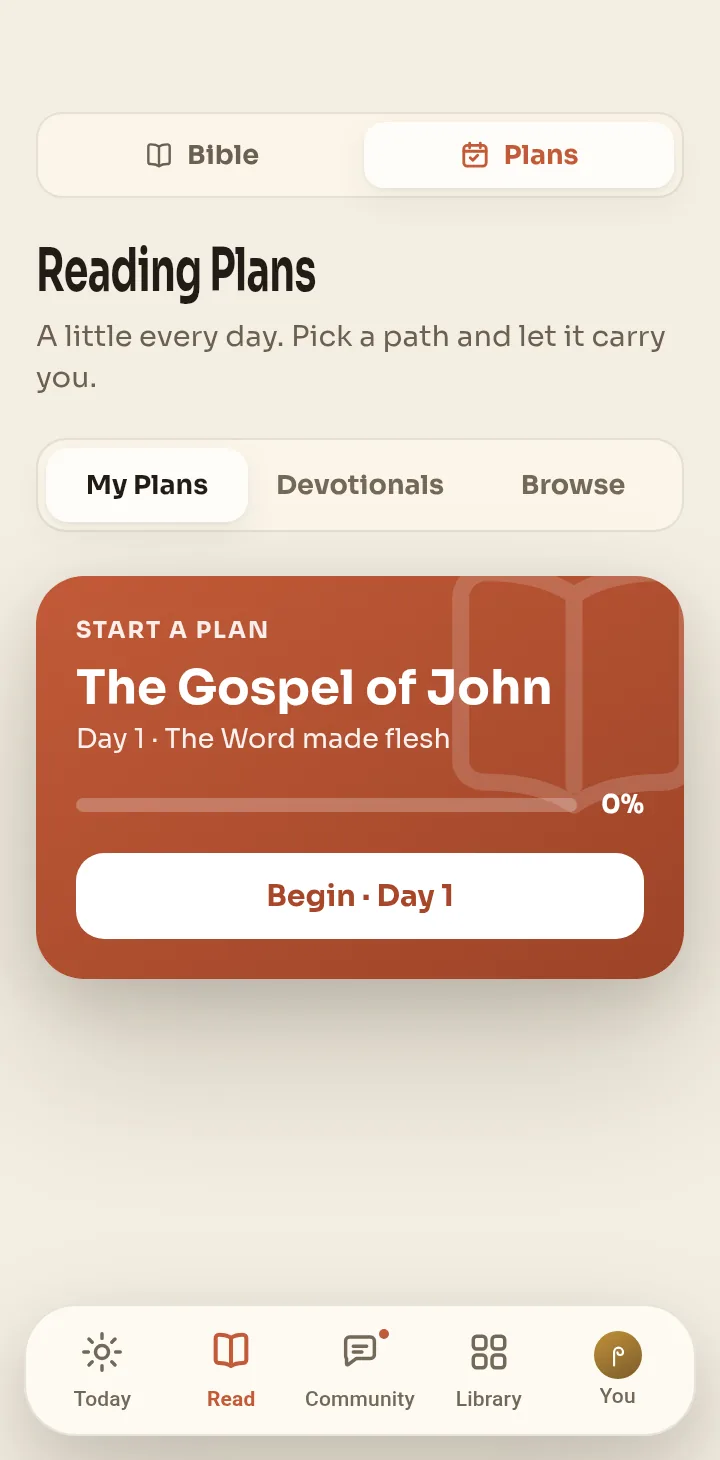
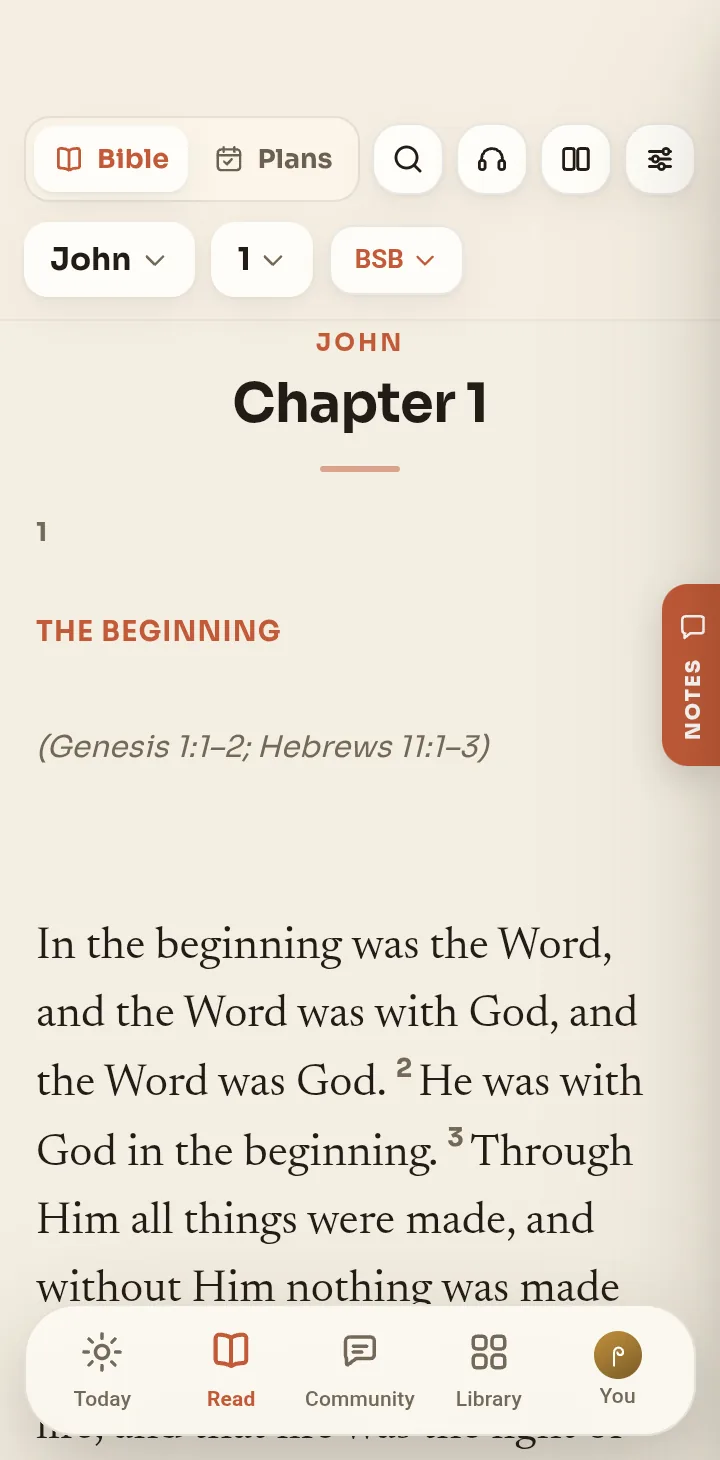
fix(site): the phone showed Today while the Bible pill was lit — and two screenshots were wrong
Three faults, all mine, all spotted by the owner on the built page.

1 ── THE RESTING IMAGE DID NOT MATCH THE RESTING PILL. `is-heart` puts a
permanent emphasis on "The Bible" as the at-rest state — deliberate, it is the
product's claim about itself — and the <img> beside it loaded
welcome-app-today.webp. So the page opened with the Bible pill lit and a
different screen in the phone. The hero now loads app-bible.webp, and the alt
text says the Bible rather than the Today screen.

2 ── TODAY BECOMES THE EIGHTH PILL rather than losing its screen. It is a good
capture and the home screen deserves a place; it just cannot be the one behind a
pill that names something else.

3 ── app-bible.webp WAS THE READING PLANS PAGE. Byte-identical to app-plans.webp,
in fact: the re-shoot clicked "Read" while the app was already on Plans, so both
captures photographed the same screen. Both re-taken, and asserted apart
(`ImageChops.difference(...).getbbox() is not None`) rather than eyeballed.

⚠ AND THE FONT. The owner: "the Reading plans font is incorrect, it doesn't match
the others". It did not — and the app was innocent, which he confirmed from the
handset. The capture caught the page BEFORE the webfont finished loading, so the
heading rasterised in the fallback while every other screenshot had Sora.
getComputedStyle was the wrong instrument and said "Sora" throughout: it reports
the DECLARED stack, not what was rasterised. CSS.getPlatformFontsForNode reports
[…]

diff --git a/welcome.html b/welcome.html
@@ -319,9 +319,13 @@
       <!-- Each pill swaps the phone beside it for a REAL screen from a real phone — a seeded church with a
            real congregation in it, not a mock-up. A pill with no data-shot is left inert on purpose: pointing
            one at an unrelated screen would be a small lie in the exact place the page claims to show you the
-           product. All seven have a screen of their own now, so none of them is inert. -->
+           product. All eight have a screen of their own, so none of them is inert.
+           ⚠ THE RESTING IMAGE MUST BE THE SCREEN THE RESTING PILL NAMES. `is-heart` puts a permanent
+           emphasis on "The Bible" as the at-rest state, and the <img> below loaded the TODAY screen —
+           so a reader arriving at the page saw the Bible pill lit and a completely different screen in
+           the phone. Spotted by the owner, 2026-09-15. Today keeps a screen of its own, as the 8th pill. -->
       <div class="feat-pills" data-pills aria-label="What's inside — tap to see it">
-        <span class="is-heart" data-shot="app-bible.webp" data-label="the Bible">The Bible</span><span data-shot="app-sermons.webp" data-label="sermons">Sermons</span><span data-shot="app-plans.webp" data-label="reading plans">Reading plans</span><span data-shot="app-devotionals.webp" data-label="devotionals">Devotionals</span><span data-shot="app-prayer.webp" data-label="prayer requests">Prayer</span><span data-shot="app-serving.webp" data-label="the serving rota">Serving rotas</span><span data-shot="app-care.webp" data-label="practical care">Care</span>
+        <span class="is-heart" data-shot="app-bible.webp" data-label="the Bible">The Bible</span><span data-shot="app-sermons.webp" data-label="sermons">Sermons</span><span data-shot="app-plans.webp" data-label="reading plans">Reading plans</span><span data-shot="app-devotionals.webp" data-label="devotionals">Devotionals</span><span data-shot="app-prayer.webp" data-label="prayer requests">Prayer</span><span data-shot="app-serving.webp" data-label="the serving rota">Serving rotas</span><span data-shot="app-care.webp" data-label="practical care">Care</span><span data-shot="welcome-app-today.webp" data-label="the Today screen">Today</span>
       </div>
       <div class="cta">
         <a href="#start" class="to-btn to-btn--clay">Start a church</a>
@@ -339,7 +343,7 @@
       <!-- No <picture>/avif here any more: pills.js swaps `src` directly, and a <source> would keep winning
            over the swapped src, so every pill would show the Today screen and look broken. One format, one
            element, one source of truth. Not lazy either — it is the hero image and it is what a pill changes. -->
-      <div class="phone-embed"><img id="appShot" src="welcome-app-today.webp" alt="The TrinityOne app — the Today screen" width="280" height="568" style="width:280px;height:568px;object-fit:cover" decoding="async" /></div>
+      <div class="phone-embed"><img id="appShot" src="app-bible.webp" alt="The TrinityOne app — the Bible" width="280" height="568" style="width:280px;height:568px;object-fit:cover" decoding="async" /></div>
     </div>
   </div>
 </header>
